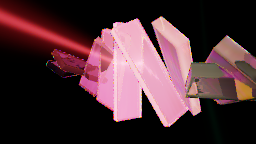
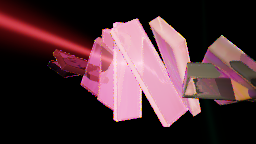
T1268: E67 Fins — the camera circles the stack, once every four minutes
The hand-built orbit swung eye +-0.30 rad over 503 s and read as a still.
The owner picked a full circle from stills against two gentler swings
(scratchpad candidates C1/C2): eyeX/eyeZ = 2.78*sin/cos(0.20 + abstime*2pi/240).
Same radius and height as hand-built; it starts at the hand-built angle, so
the t=0 frame is the composition approved at T1265. A turn is periodic, so
there is no seam.

Claims (e67-fins-claims.gpu.test.ts): the shipped expressions, evaluated by
the app's expression engine, unwrap to one whole turn per 240 s at radius
2.78, and the eye at abstime 0 equals the T1265 eye; a quarter-turn in (60 s)
the frame differs from the same frame with the eye frozen at t=0 over 57.7% of
the picture (bound 0.3; frozen reads 0).

.md gets a Motion section (V913). Look baseline E67 re-measured (V642): motion
0.10445 -> 0.10158, range 0.659 -> 0.6601. Thumbnail regenerated.

Claude-Session: https://claude.ai/code/session_01Epp2EvSZakaFrPuyaDAxGN

diff --git a/src/examples/e67-fins-claims.gpu.test.ts b/src/examples/e67-fins-claims.gpu.test.ts
@@ -1,5 +1,6 @@
 import { beforeAll, describe, expect, it } from "vitest";
 
+import { evaluateExpression } from "../domain/expressions/evaluate.ts";
 import type { GraphDocument } from "../domain/types/graph.ts";
 import type { ParameterSlot } from "../domain/types/parameters.ts";
 import { nodeGpuHost, probeDawn } from "../runtime/backend/vgpu/node-gpu-host.ts";
@@ -180,4 +181,95 @@ describe("E67 Fins: the lights on the beat", () => {
     const lift = (at: number) => brightness(shipped[at]!) - brightness(noSnare[at]!);
     expect(lift(frame)).toBeGreaterThan(3 * lift(MOMENTS.kick));
   }, 300_000);
+});
+
+/**
+ * T1268 — THE CAMERA CIRCLES THE STACK, and the composition changes because of it.
+ *
+ * The hand-built orbit swung ±0.30 rad over 503 s and read as a still. The owner picked a
+ * full circle every 240 s from stills (the period is theirs; these bounds guard what they
+ * chose rather than invent a target):
+ *
+ *   TRAVEL   the shipped eye expressions, evaluated by the app's own expression engine over
+ *            one period, unwrap to a whole turn at the hand-built radius.
+ *   REST     at abstime 0 the eye is the T1265 eye, so the approved first frame is unchanged
+ *            by construction: nothing else in the file moved.
+ *   MOTION   a quarter-turn in (60 s), the frame differs from the same frame with the eye
+ *            frozen at its t = 0 position over more than a stated share of the picture. The
+ *            frozen arm has the slabs' own spin, the surges and the beams, so what is left is
+ *            the camera's alone.
+ */
+describe("E67 Fins: the camera circles the stack", () => {
+  const PERIOD = 240;
+  const eyeAt = (t: number): { x: number; z: number } => {
+    const glass = e67().document.graph.nodes["glass"]!;
+    const read = (key: string): number => {
+      const slot = glass.parameters[key] as ParameterSlot;
+      const source = (slot as { bindings: { expression: { source: string } } }).bindings.expression.source;
+      const result = evaluateExpression(source, { abstime: t });
+      if (!result.ok) throw new Error(`${key}: ${result.reason}`);
+      return result.value;
+    };
+    return { x: read("eyeX"), z: read("eyeZ") };
+  };
+
+  it("travels a whole turn per period at the hand-built radius, and starts on the approved eye", () => {
+    let travel = 0;
+    let previous = Math.atan2(eyeAt(0).x, eyeAt(0).z);
+    for (let t = 1; t <= PERIOD; t += 1) {
+      const eye = eyeAt(t);
+      expect(Math.hypot(eye.x, eye.z)).toBeCloseTo(2.78, 6);
+      const angle = Math.atan2(eye.x, eye.z);
+      travel += Math.atan2(Math.sin(angle - previous), Math.cos(angle - previous));
+      previous = angle;
+    }
+    expect(travel).toBeCloseTo(2 * Math.PI, 3);
+    // The T1265 eye at t = 0: 2.78·sin(0.20), 2.78·cos(0.20) — the hand-built orbit's start.
+    expect(eyeAt(0).x).toBeCloseTo(2.78 * Math.sin(0.2), 9);
+    expect(eyeAt(0).z).toBeCloseTo(2.78 * Math.cos(0.2), 9);
+  });
+
+  it("a quarter-turn in, the camera has moved the picture, not only the slabs", async () => {
+    if (dawnError !== undefined) throw new Error(dawnError);
+    const frame = (PERIOD / 4) * FPS;
+    const render = async (frozen: boolean): Promise<Uint8Array> => {
+      const { document, result } = e67();
+      const graph = structuredClone(document.graph) as GraphDocument;
+      if (frozen) {
+        const glass = graph.nodes["glass"]!;
+        const start = eyeAt(0);
+        glass.parameters = { ...glass.parameters, eyeX: start.x, eyeZ: start.z };
+      }
+      const rendered = await renderHeadless({
+        host: nodeGpuHost(),
+        graph,
+        settings: { ...document.settings, outputResolution: { ...SIZE } },
+        frames: frame + 1,
+        capture: [frame],
+        outputNodeId: "out",
+        fps: FPS,
+        animate: true,
+        components: result.components!,
+        audio: shippedClipAudio(graph, FPS)!,
+      });
+      expect(rendered.diagnostics.filter((d) => d.severity === "error")).toEqual([]);
+      const space = rendered.plan.outputs.find((o) => o.nodeId === "out")?.space ?? "linear";
+      const f = rendered.frames[0]!;
+      return toRgba8(
+        { width: f.width, height: f.height, format: f.format, bytes: f.bytes, rowStride: f.width * (BYTES_PER_PIXEL[f.format] ?? 8) },
+        { space },
+      ).data;
+    };
+    const moving = await render(false);
+    const still = await render(true);
+    let moved = 0;
+    for (let i = 0; i < moving.length; i += 4) {
+      const d = Math.abs(moving[i]! - still[i]!) + Math.abs(moving[i + 1]! - still[i + 1]!) + Math.abs(moving[i + 2]! - still[i + 2]!);
+      if (d > 24) moved += 1;
+    }
+    const share = moved / (SIZE.width * SIZE.height);
+    // Measured 57.7% at 320x180; the bound is half of it, far above what a frozen camera
+    // (the same frame, exactly: 0%) could reach.
+    expect(share, `the orbit moved ${(share * 100).toFixed(1)}% of the picture`).toBeGreaterThan(0.3);
+  }, 600_000);
 });

diff --git a/src/examples/documents/fins.ts b/src/examples/documents/fins.ts
@@ -84,9 +84,13 @@ export const finsDocument = document(
       }, {
         label: "glassRT",
         parameters: {
-          // The owner's orbit. Retained values are the orbit at t = 0.
-          eyeX: expressionSlot("2.78*sin(0.20+0.30*sin(abstime*0.0125))", 0.5523),
-          eyeZ: expressionSlot("2.78*cos(0.20+0.30*sin(abstime*0.0125))", 2.7246),
+          /* T1268 — THE CAMERA CIRCLES THE STACK, once every four minutes. The hand-built
+             orbit swung ±0.30 rad over 503 s and read as a still; the owner picked a full
+             circle from stills against two swings. A turn is periodic, so there is no seam to
+             hide. It starts at the hand-built angle of 0.20 rad, so t = 0 is the composition
+             the owner approved at T1265, and the retained values are that frame. */
+          eyeX: expressionSlot("2.78*sin(0.20+abstime*6.2831853/240)", 0.5523),
+          eyeZ: expressionSlot("2.78*cos(0.20+abstime*6.2831853/240)", 2.7246),
           // The lights. Each one returns the owner's value when its lane is 0.
           stripLevel: expressionSlot(`4 * (1 + 0.8 * ${HIT("kickCount")})`, 4),
           laser: expressionSlot(`2.6 * (1 + 2 * ${HIT("kickCount")})`, 2.6),

diff --git a/examples/E67-Fins.md b/examples/E67-Fins.md
@@ -30,6 +30,10 @@ Every driven parameter is the hand-built value times (1 + gain × lane), or plus
 
 `src/examples/e67-fins-claims.gpu.test.ts` asserts all of this from rendered pixels. At reactivity 0, and before the clip's first hit, the frame equals the frame with every light cut to its hand-built value. On the kick, cutting the kick lights changes the frame and darkens it. On the snare, cutting the glow does the same, and on the kick cutting the glow changes nothing. The same test checks on the document that the set of parameters reading `react1` is exactly the six lights.
 
+## Motion
+
+The camera circles the stack once every **four minutes**, at the hand-built distance and height (T1268). It starts at the hand-built angle, so the first frame is the composition approved when the piece shipped. Over a turn the fins go from facing you, through side-on (where the stack reads as a line of blades), and back. The hand-built orbit swung ±17° over eight minutes and read as a still. The owner picked the full circle from stills against two gentler swings. A turn is periodic, so it never shows a seam. Inside the stack, the slabs keep their own slow spin, spiral surges and beams, all on the absolute clock.
+
 ## What changed from the hand-built file
 
 - The room's input was a photo node holding a `blob:` URL, which dies with the tab. It never reached the picture: `envMix` was never set, so it sits at its default of 0, and the shader samples its input only above that. The file's own unconnected black `envSeed` feeds the input now. To light the glass with a real room, wire a latlong image into `glassRT` and raise `envMix`.
